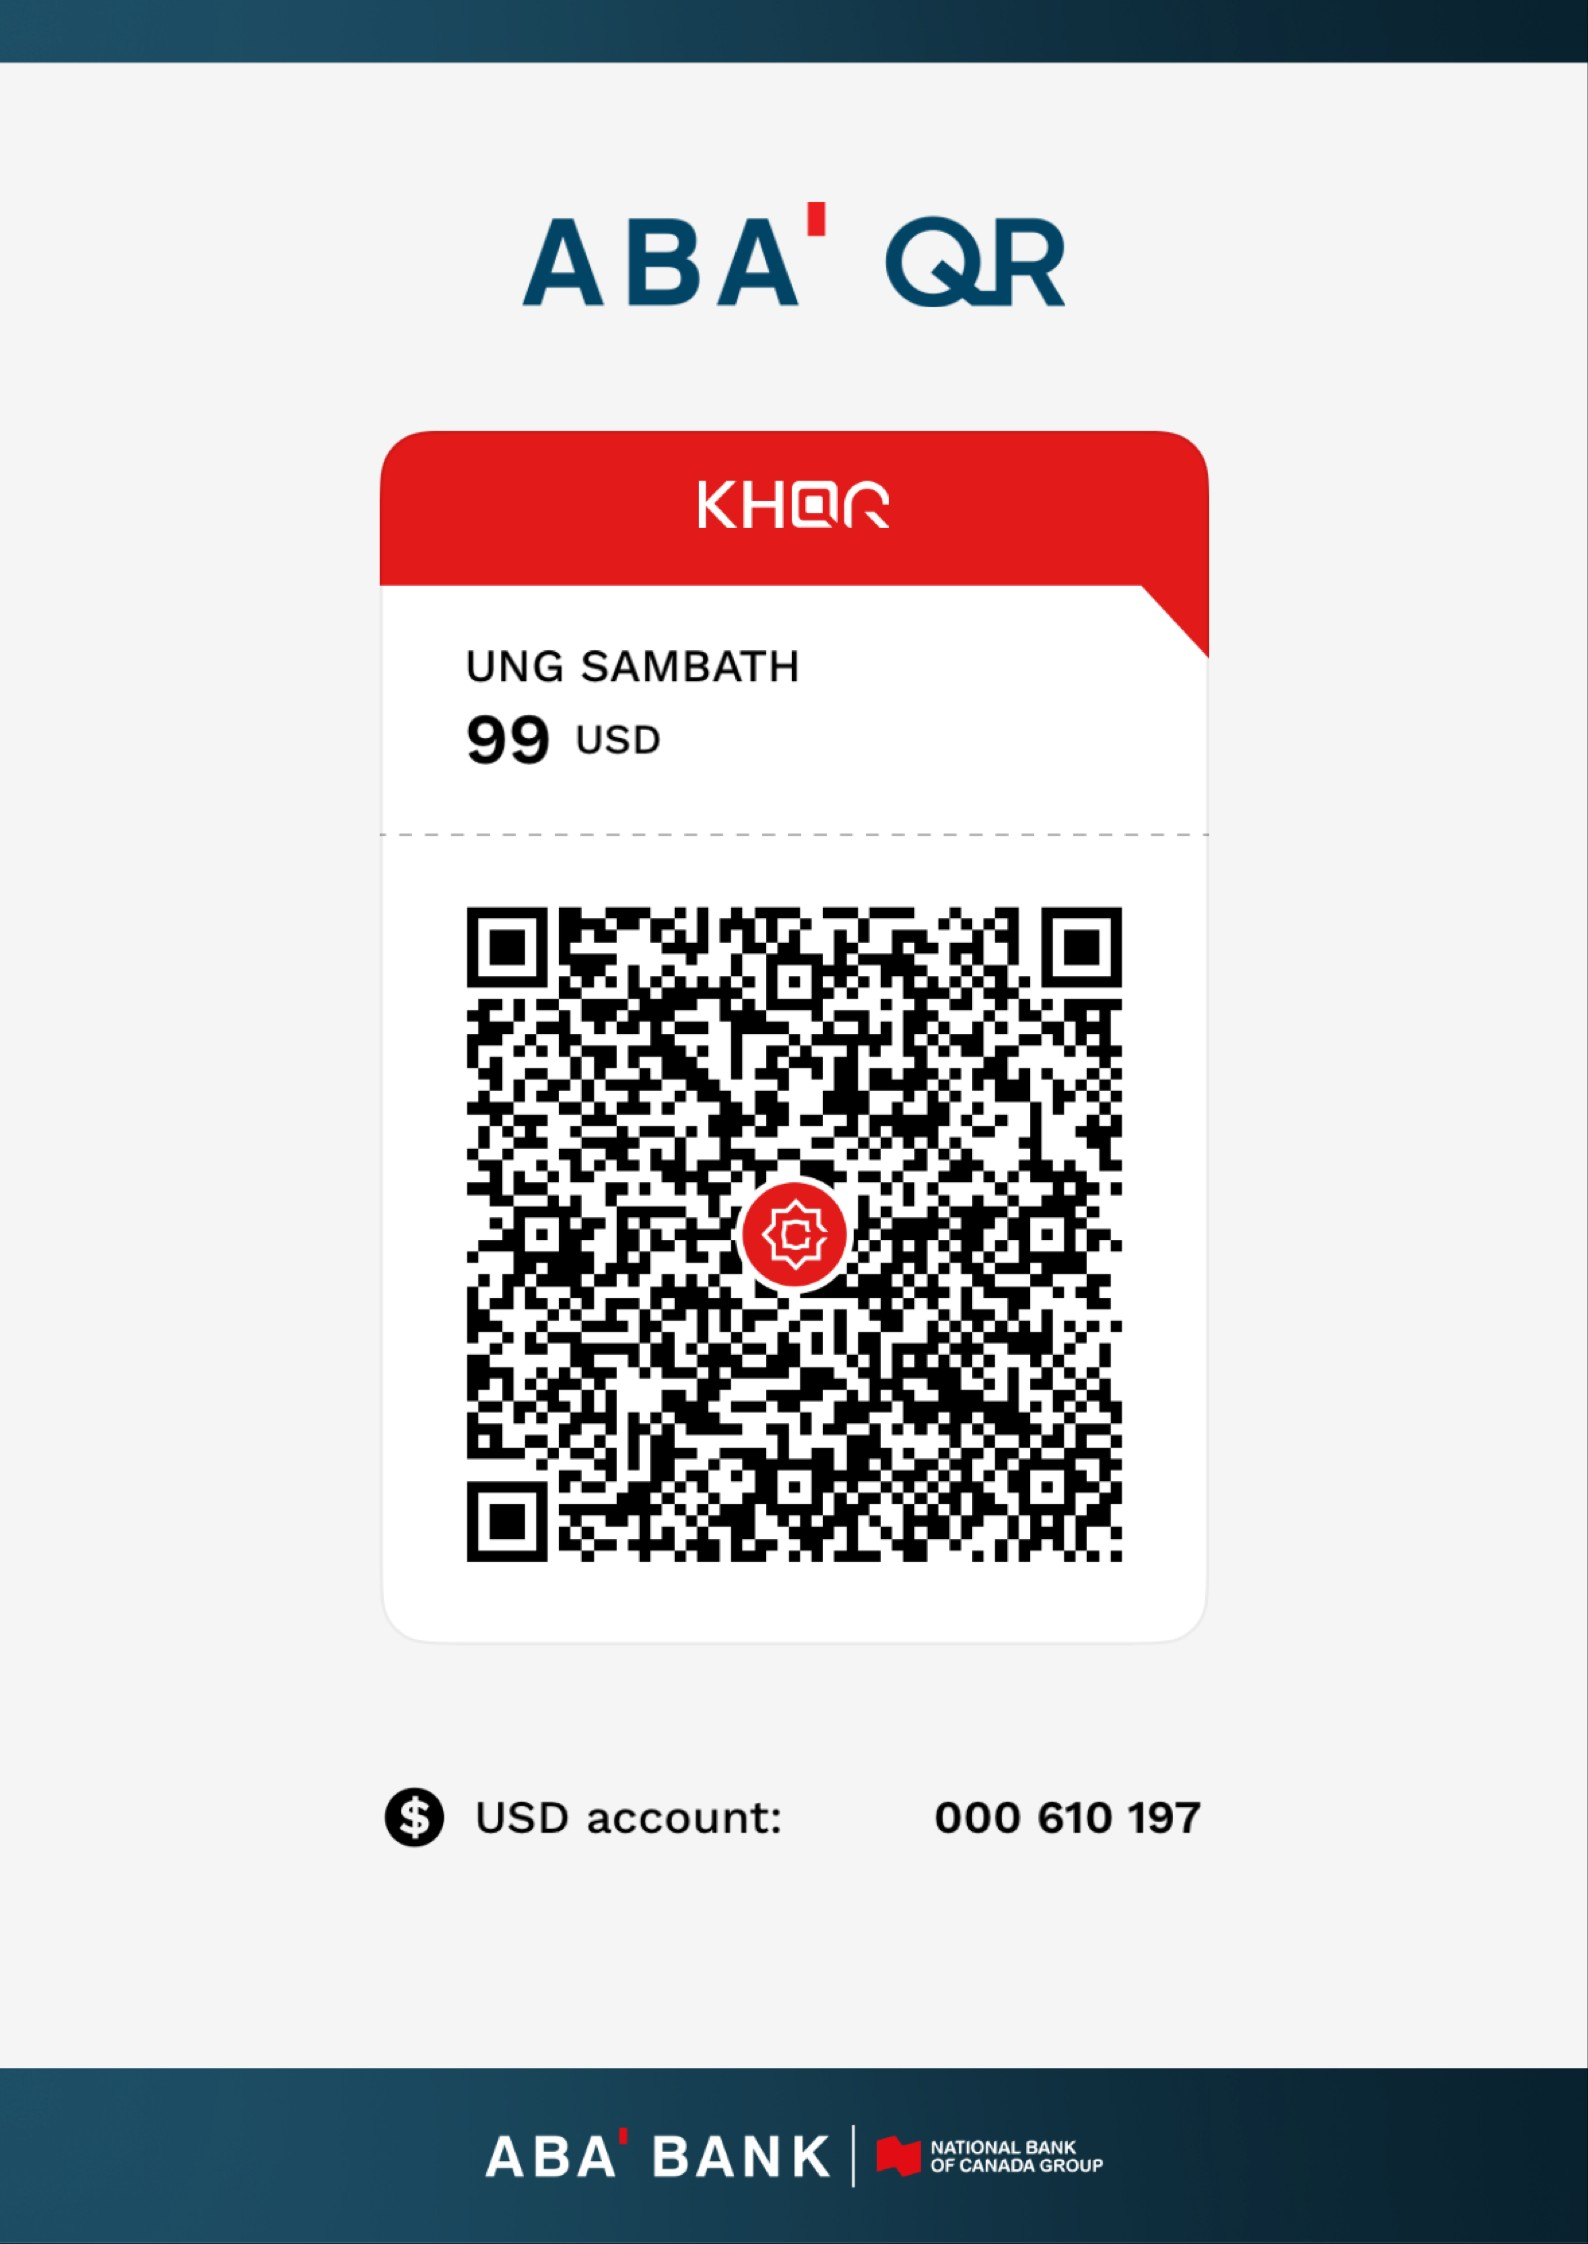
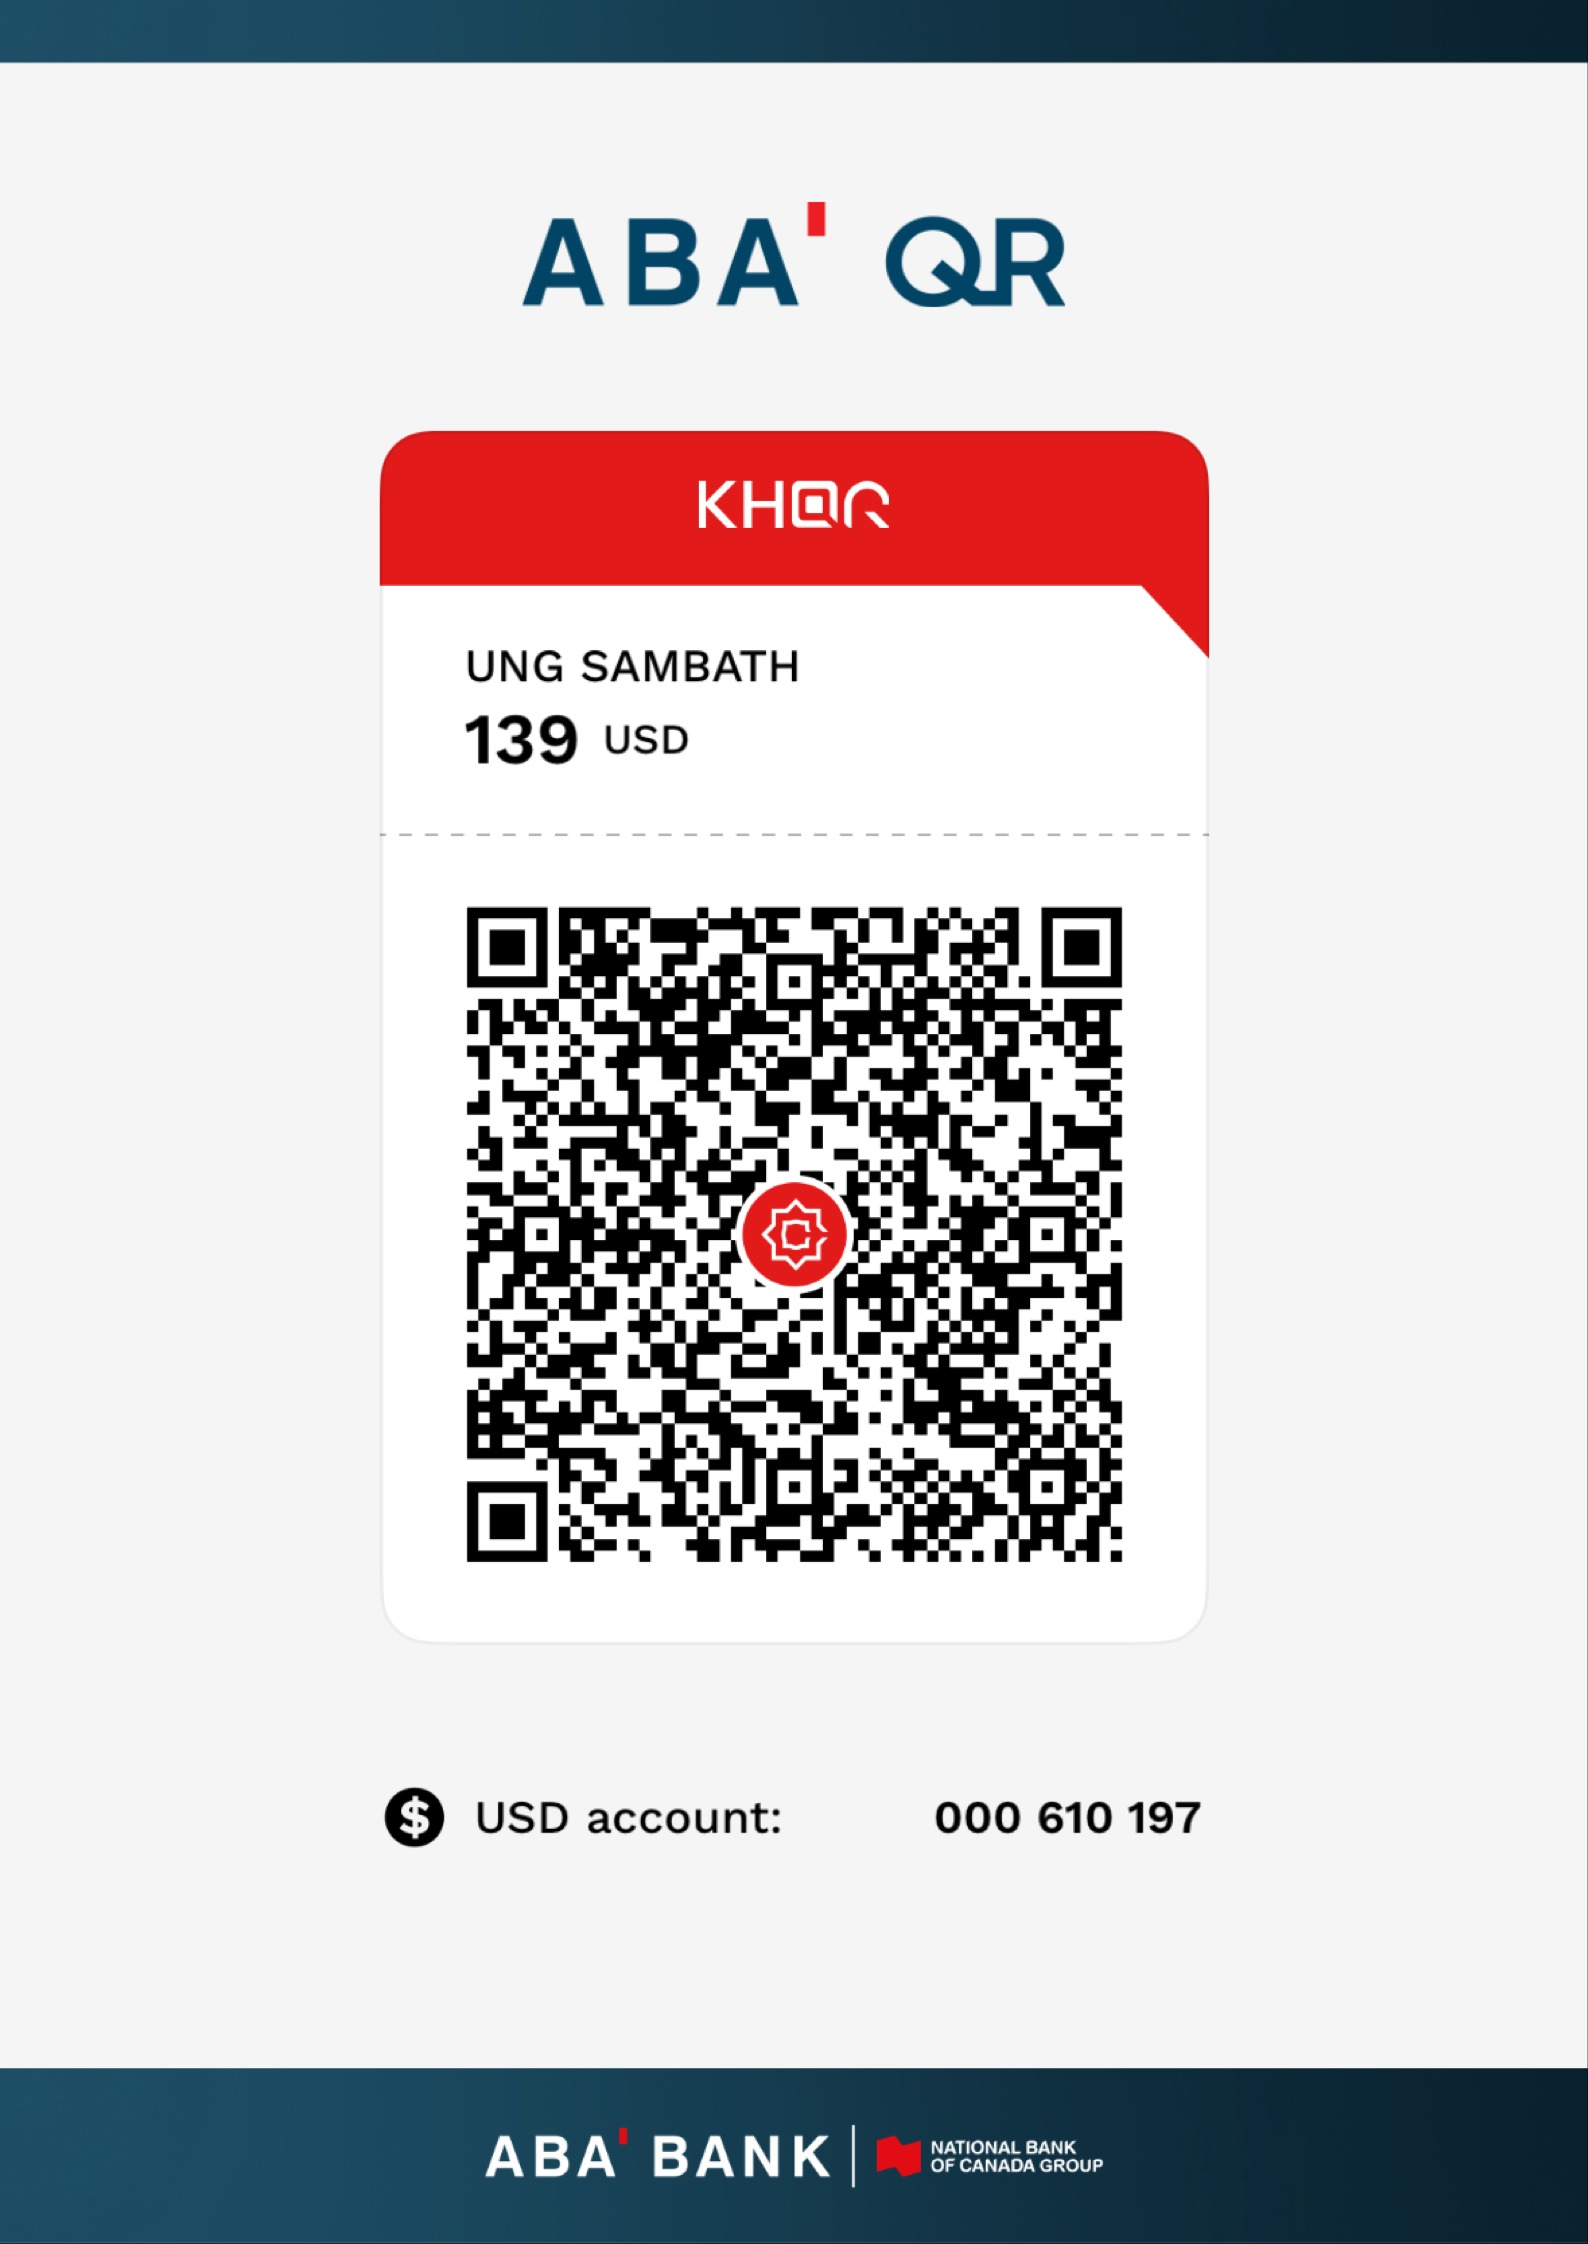
Price $139 with new ABA KHQR (draft)
Claude-Session: https://claude.ai/code/session_012v8GmNWcK77emrUMY9jaPd

diff --git a/index.html b/index.html
@@ -516,7 +516,7 @@ footer small{color:var(--muted);font-size:13px}
         <span><b><span class="km">ថ្ងៃសៅរ៍ ៥ ធ្នូ</span><span class="en">Saturday 5 Dec</span></b> · <span class="km">ថ្នាក់បន្ទាប់</span><span class="en">next class</span></span>
         <span><b><span class="km">១ ថ្ងៃពេញ</span><span class="en">1 full day</span></b> · <span class="km">៧:៣០ ព្រឹក – ៥:០០ ល្ងាច</span><span class="en">7:30 AM – 5:00 PM</span></span>
         <span><b><span class="km">សិស្ស ១២ នាក់</span><span class="en">12 students</span></b> · <span class="km">ក្នុងមួយថ្នាក់</span><span class="en">per class</span></span>
-        <span><b>$99</b> · <span class="km">សម្រាប់សិស្ស ១០ នាក់ដំបូង</span><span class="en">for the first 10 students</span></span>
+        <span><b>$139</b> · <span class="km">សម្រាប់សិស្ស ១០ នាក់ដំបូង</span><span class="en">for the first 10 students</span></span>
       </div>
       <a class="trust rise2" href="https://www.facebook.com/share/1FKMSLQNVe/?mibextid=wwXIfr" target="_blank" rel="noopener"><svg class="fb-ico" viewBox="0 0 24 24" aria-hidden="true"><path fill="currentColor" d="M24 12a12 12 0 1 0-13.9 11.9v-8.4h-3V12h3V9.4c0-3 1.8-4.7 4.5-4.7 1.3 0 2.7.2 2.7.2v3h-1.5c-1.5 0-2 .9-2 1.9V12h3.4l-.5 3.5h-2.9v8.4A12 12 0 0 0 24 12z"/></svg><span><span class="km">បង្រៀនដោយ <b>អ៊ុង សម្បត្តិ</b><br class="m-br"> ម្ចាស់<b>ភោជនីយដ្ឋានរំចង់</b><br class="m-br"> (តាំងពីឆ្នាំ ១៩៩៤)</span><span class="en">Taught by <b>Ung Sambath</b>,<br class="m-br"> owner of <b>Rumchong Restaurant</b><br class="m-br"> (since 1994)</span></span><span class="go">↗</span></a>
     </div>
@@ -725,7 +725,7 @@ footer small{color:var(--muted);font-size:13px}
         <details><summary><span class="km">តើខ្ញុំត្រូវមានគណនី Claude ឬ ChatGPT មុនទេ?</span><span class="en">Do I need a Claude or ChatGPT account first?</span></summary><p><span class="km">មិនចាំបាច់ទេ។ ប្រសិនបើអ្នកមិនទាន់មាន យើងនឹងបង្កើតជាមួយគ្នានៅក្នុងថ្នាក់។</span><span class="en">No. If you don't have one yet, we'll create it together in class.</span></p></details>
         <details><summary><span class="km">តើខ្ញុំនឹងទទួលបានអ្វីនៅចុងថ្ងៃ?</span><span class="en">What will I have at the end of the day?</span></summary><p><span class="km">ភាពយន្តខ្លីមួយ ដែលអ្នកបង្កើតដោយខ្លួនឯង ជាមួយ Claude និងចំណេះដឹងដើម្បីបង្កើតរឿងបន្ទាប់ទៀត។</span><span class="en">A short film you made yourself with Claude, and the know-how to make the next one.</span></p></details>
         <details><summary><span class="km">ហេតុអ្វីបានជាថ្នាក់មានតែ ១២ នាក់?</span><span class="en">Why only 12 students per class?</span></summary><p><span class="km">ដើម្បីឲ្យគ្រូអាចជួយសិស្សម្នាក់ៗ រហូតដល់បង្កើតភាពយន្តបានសម្រេច។</span><span class="en">So the teacher can help every student until their film is finished.</span></p></details>
-        <details><summary><span class="km">តើតម្លៃ $99 មានរយៈពេលដល់ពេលណា?</span><span class="en">How long does the $99 price last?</span></summary><p><span class="km">សម្រាប់តែសិស្ស ១០ នាក់ដំបូងប៉ុណ្ណោះ។ បន្ទាប់ពីនោះ តម្លៃគឺ $499។</span><span class="en">Only for the first 10 students. After that, the price is $499.</span></p></details>
+        <details><summary><span class="km">តើតម្លៃ $139 មានរយៈពេលដល់ពេលណា?</span><span class="en">How long does the $139 price last?</span></summary><p><span class="km">សម្រាប់តែសិស្ស ១០ នាក់ដំបូងប៉ុណ្ណោះ។ បន្ទាប់ពីនោះ តម្លៃគឺ $499។</span><span class="en">Only for the first 10 students. After that, the price is $499.</span></p></details>
       </div>
     </div>
   </section>
@@ -805,9 +805,9 @@ footer small{color:var(--muted);font-size:13px}
             <p class="ty-booked" hidden><span class="km">អ្នកបានកក់កន្លែងក្នុងថ្នាក់ <b class="ty-class"></b> រួចហើយ។ យើងនឹងផ្ញើព័ត៌មានថ្នាក់ទៅអ៊ីមែលរបស់អ្នក។ ចង់និយាយឥឡូវនេះ? ផ្ញើសារមក Telegram។</span><span class="en">Your seat in the <b class="ty-class"></b> class is booked. We'll email you the class details. Want to talk now? Message us on Telegram.</span></p>
             <p class="ty-wait"><span class="km">អ្នកស្ថិតក្នុងបញ្ជីរង់ចាំហើយ។ ពេលកាលបរិច្ឆេទថ្នាក់ត្រូវបានកំណត់ ឬមានកន្លែងទំនេរ យើងនឹងទាក់ទងអ្នកមុនគេ។ ចង់និយាយឥឡូវនេះ? ផ្ញើសារមក Telegram។</span><span class="en">You're on the waiting list. When the class date is set or a seat opens, we'll contact you first. Want to talk now? Message us on Telegram.</span></p>
             <div class="pay" id="pay">
-              <div class="pay-head"><span class="pay-step">1</span><div><b><span class="km">បង់ប្រាក់ $99 តាម ABA</span><span class="en">Pay $99 with ABA</span></b><small><span class="km">ស្កេន QR នេះ ក្នុងកម្មវិធី ABA ឬធនាគារណាមួយ (KHQR)</span><span class="en">Scan this QR in ABA or any bank app (KHQR)</span></small></div></div>
-              <div class="qr"><img src="img/aba-khqr.webp" alt="ABA KHQR: UNG SAMBATH, 99 USD" width="850" height="1241" onerror="this.parentNode.classList.add('missing')" loading="lazy" decoding="async"><span class="qr-missing"><span class="km">QR នឹងមានឆាប់ៗ · ទាក់ទងយើងតាម Telegram</span><span class="en">QR coming soon · message us on Telegram</span></span></div>
-              <div class="pay-acts"><a class="btn btn-ghost" href="img/aba-khqr-full.jpg" download="ABA-KHQR-Master-AI-Film-99USD.jpg"><span class="km">⬇ រក្សាទុក QR</span><span class="en">⬇ Save QR</span></a></div>
+              <div class="pay-head"><span class="pay-step">1</span><div><b><span class="km">បង់ប្រាក់ $139 តាម ABA</span><span class="en">Pay $139 with ABA</span></b><small><span class="km">ស្កេន QR នេះ ក្នុងកម្មវិធី ABA ឬធនាគារណាមួយ (KHQR)</span><span class="en">Scan this QR in ABA or any bank app (KHQR)</span></small></div></div>
+              <div class="qr"><img src="img/aba-khqr.webp" alt="ABA KHQR: UNG SAMBATH, 139 USD" width="850" height="1241" onerror="this.parentNode.classList.add('missing')" loading="lazy" decoding="async"><span class="qr-missing"><span class="km">QR នឹងមានឆាប់ៗ · ទាក់ទងយើងតាម Telegram</span><span class="en">QR coming soon · message us on Telegram</span></span></div>
+              <div class="pay-acts"><a class="btn btn-ghost" href="img/aba-khqr-full.jpg" download="ABA-KHQR-Master-AI-Film-139USD.jpg"><span class="km">⬇ រក្សាទុក QR</span><span class="en">⬇ Save QR</span></a></div>
               <p class="pay-tip"><span class="km">ប្រើទូរស័ព្ទ? រក្សាទុក QR → បើក ABA → Scan → ជ្រើសរូបពីអាល់ប៊ុម</span><span class="en">On your phone? Save the QR → open ABA → Scan → choose the photo from your gallery</span></p>
               <p class="pay-acc"><span class="km">ឬផ្ទេរទៅគណនី ABA (USD)៖</span><span class="en">Or transfer to ABA (USD):</span> <b>000 610 197</b> · UNG SAMBATH <button type="button" class="copy-acc" data-copy="000610197">Copy</button></p>
               <p class="pay-ref"><span class="km">សូមសរសេរលេខនេះក្នុងចំណាំបង់ប្រាក់៖</span><span class="en">Write this code in the payment note:</span> <b id="pay-ref">—</b></p>

diff --git a/prompts/index.html b/prompts/index.html
@@ -2141,7 +2141,7 @@ NO EXTRA: no text, no logo, no watermark, no plastic skin, no extra fingers, no 
 
   <section class="cta">
     <div><h2><span class="km">ចង់បង្កើតជាខ្សែភាពយន្ត មិនមែនត្រឹមរូប?</span><span class="en">Want to make a whole movie, not just a picture?</span></h2>
-    <p><span class="km">វគ្គ Master AI Film with Claude · ថ្ងៃសៅរ៍ ៥ ធ្នូ · $99 សម្រាប់សិស្ស ១០ នាក់ដំបូង</span><span class="en">Master AI Film with Claude · Saturday 5 December · $99 for the first 10 students</span></p></div>
+    <p><span class="km">វគ្គ Master AI Film with Claude · ថ្ងៃសៅរ៍ ៥ ធ្នូ · $139 សម្រាប់សិស្ស ១០ នាក់ដំបូង</span><span class="en">Master AI Film with Claude · Saturday 5 December · $139 for the first 10 students</span></p></div>
     <a class="btn btn-gold" href="/#register"><span class="km">ចុះឈ្មោះចូលរៀន</span><span class="en">Join the class</span></a>
   </section>
 </main>
